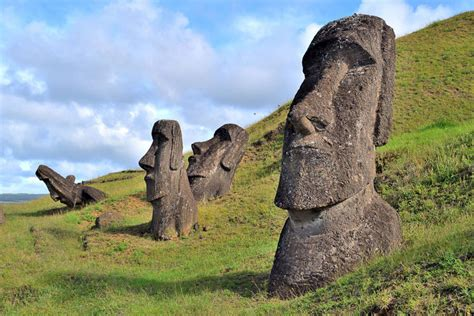
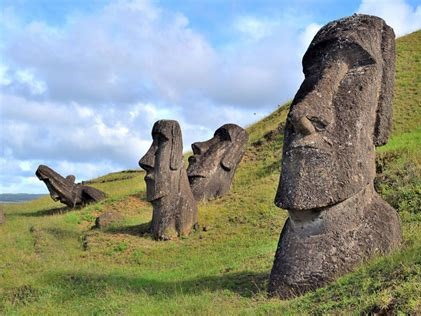
Resized images in carousel so they all fit within the same aspect ratio

diff --git a/index.html b/index.html
@@ -12,7 +12,7 @@
 <body>
   <!--Header-->
   <header class="row">
-    <div class="p-4 col-lg bg-dark text-white">
+    <div class="p-4 col-lg bg-primary text-white">
       <h1>Welcome to the first page!</h1>
       <p>Check out this nifty table and carousel, wow!!</p>
     </div>
@@ -43,22 +43,26 @@
       <table class="table">
         <thead>
           <tr>
-            <th>Header 1</th>
-            <th>Header 2</th>
+            <th>Fun Facts About Moai</th>
+            <th>Here's another header</th>
           </tr>
         </thead>
         <tbody>
           <tr>
-            <td>Information</td>
-            <td>Information</td>
+            <td>They come from easter island</td>
+            <td>I'm not really sure what to put in this one honestly</td>
           </tr>
           <tr>
-            <td>Information</td>
-            <td>Information</td>
+            <td>They look pretty funny</td>
+            <td>I hope you are having a good day, whoever is reading this : )</td>
           </tr>
           <tr>
-            <td>Information</td>
-            <td>Information</td>
+            <td>There's nearly 900 of them on there</td>
+            <td>Do you think Moai are as cool as I do?</td>
+          </tr>
+          <tr>
+            <td>You can find more info <a href="https://www.journeylatinamerica.com/travel-inspiration/top-hits/8-interesting-facts-about-easter-island/">here</a>, if you wish.</td>
+            <td>You don't? That's okay too.</td>
           </tr>
         </tbody>
       </table>
@@ -70,13 +74,19 @@
         <!--Picture Carousel-->
         <div class="carousel-inner">
           <div class="carousel-item active">
-            <img class="img-fluid" src="Pictures/moai1.jpg" class="d-block" style="width:100%">
+            <img class="img-fluid" src="Pictures/moai1.jpg" class="d-block" width="1024" height="768">
           </div>
           <div class="carousel-item">
-            <img class="img-fluid" src="Pictures/moai2.jpg" class="d-block" style="width:100%">
+            <img class="img-fluid" src="Pictures/moai2.jpg" class="d-block" width="1024" height="768">
           </div>
           <div class="carousel-item">
-            <img class="img-fluid" src="Pictures/moai3.jpg" class="d-block" style="width:100%">
+            <img class="img-fluid" src="Pictures/moai3.jpg" class="d-block" width="1024" height="768">
+          </div>
+          <div class="carousel-item">
+            <img class="img-fluid" src="Pictures/moai4.jpg" class="d-block" width="1024" height="768">
+          </div>
+          <div class="carousel-item">
+            <img class="img-fluid" src="Pictures/moai5.jpg" class="d-block" width="1024" height="768">
           </div>
         </div>
 

diff --git a/form.html b/form.html
@@ -13,7 +13,7 @@
 <body>
   <!--Header-->
   <header class="row">
-    <div class="p-4 col-lg bg-dark text-white">
+    <div class="p-4 col-lg bg-primary text-white">
       <h1>You made it to page two, congrats!</h1>
       <p>Fill out this form (or else)</p>
     </div>
